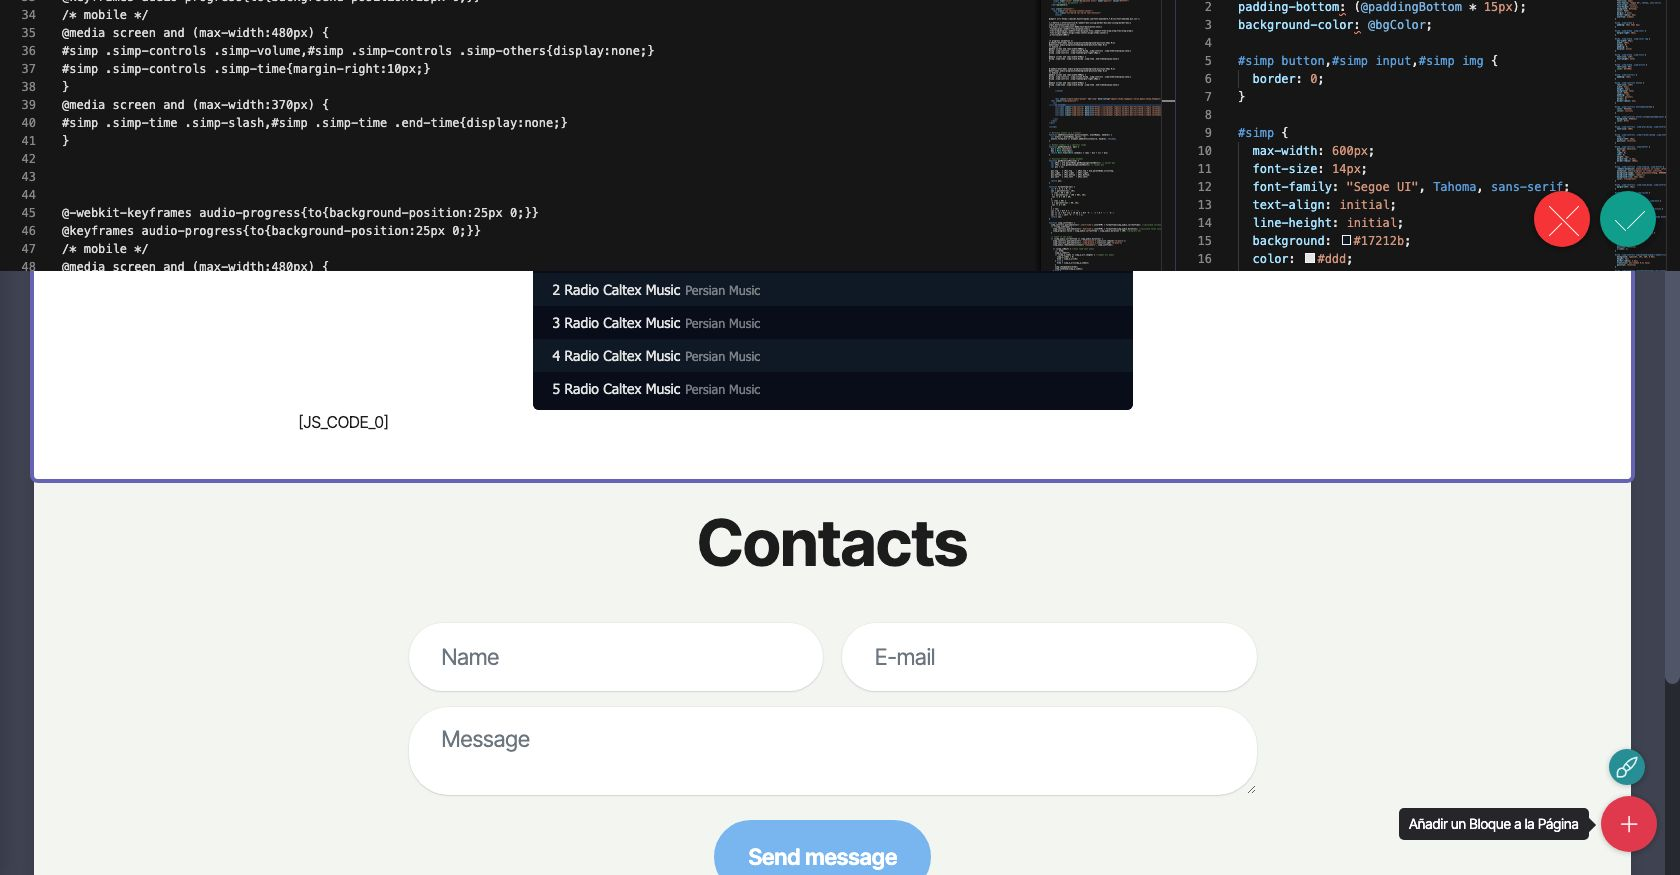
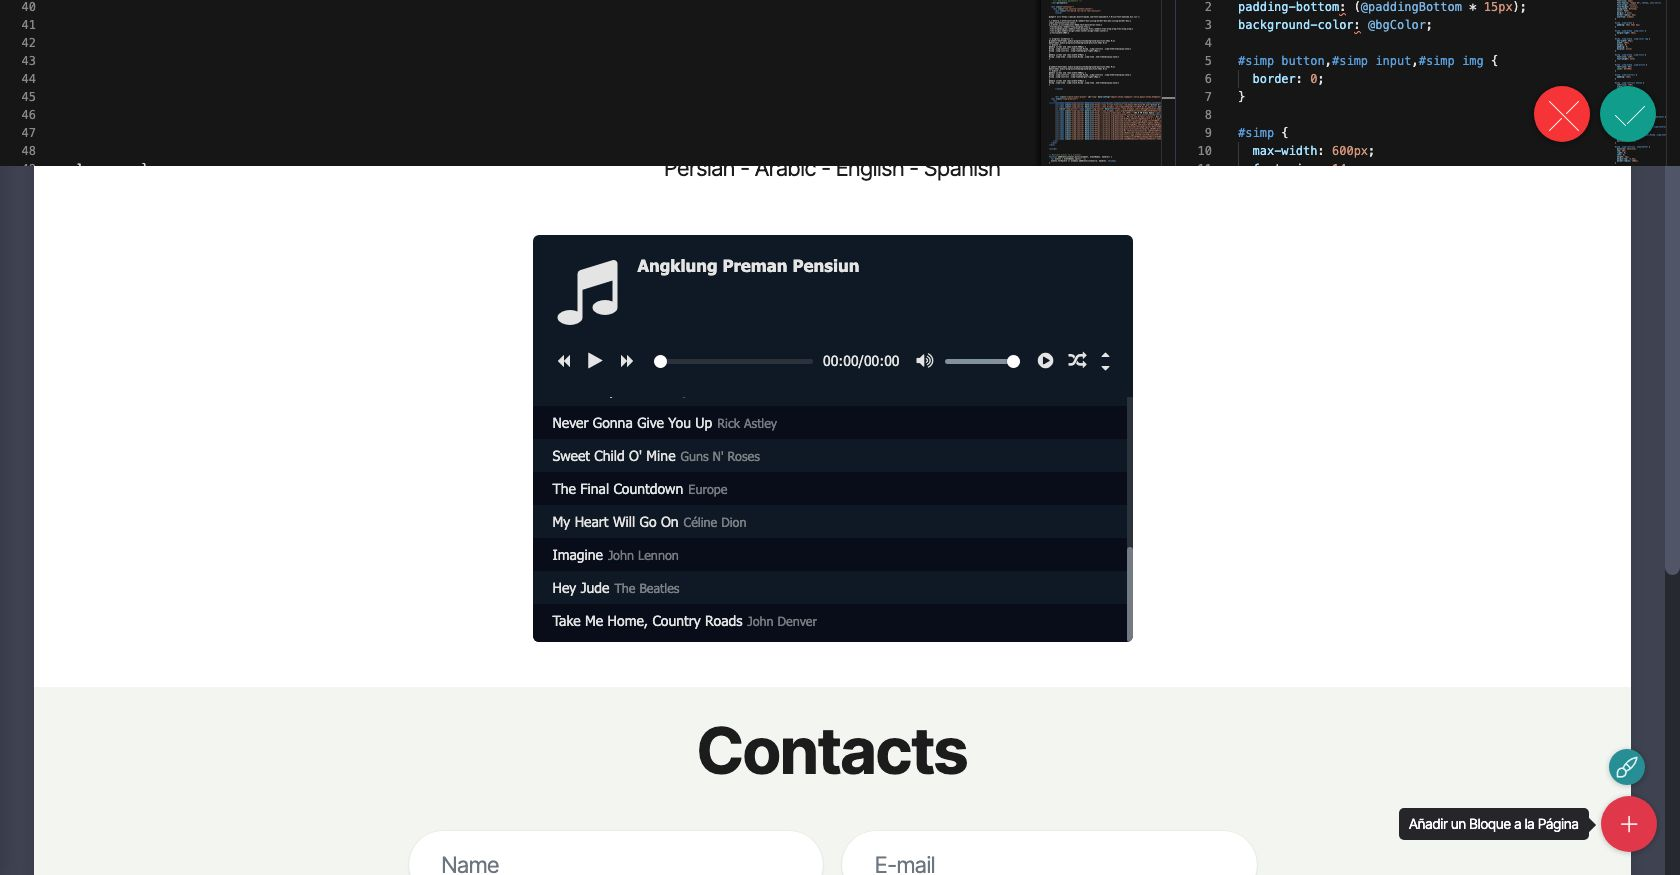
2

diff --git a/assets/mobirise/css/mbr-additional.css b/assets/mobirise/css/mbr-additional.css
@@ -801,17 +801,17 @@ a {
 .cid-uVRa9ExS3o .mbr-section-subtitle {
   color: #232323;
 }
-.cid-uVRVEUpCmg {
+.cid-uVRYMkuzwx {
   padding-top: 45px;
   padding-bottom: 45px;
   background-color: #ffffff;
 }
-.cid-uVRVEUpCmg #simp button,
-.cid-uVRVEUpCmg #simp input,
-.cid-uVRVEUpCmg #simp img {
+.cid-uVRYMkuzwx #simp button,
+.cid-uVRYMkuzwx #simp input,
+.cid-uVRYMkuzwx #simp img {
   border: 0;
 }
-.cid-uVRVEUpCmg #simp {
+.cid-uVRYMkuzwx #simp {
   max-width: 600px;
   font-size: 14px;
   font-family: "Segoe UI", Tahoma, sans-serif;
@@ -823,31 +823,31 @@ a {
   border-radius: 6px;
   overflow: hidden;
 }
-.cid-uVRVEUpCmg #simp .simp-album {
+.cid-uVRYMkuzwx #simp .simp-album {
   padding: 20px 25px 5px;
 }
-.cid-uVRVEUpCmg #simp .simp-album .simp-cover {
+.cid-uVRYMkuzwx #simp .simp-album .simp-cover {
   margin-right: 20px;
 }
-.cid-uVRVEUpCmg #simp .simp-album .simp-cover img {
+.cid-uVRYMkuzwx #simp .simp-album .simp-cover img {
   max-width: 80px;
   width: 100%;
   margin: 0;
   padding: 0;
   display: block;
 }
-.cid-uVRVEUpCmg #simp .simp-album .simp-title {
+.cid-uVRYMkuzwx #simp .simp-album .simp-title {
   font-size: 120%;
   font-weight: bold;
 }
-.cid-uVRVEUpCmg #simp .simp-album .simp-artist {
+.cid-uVRYMkuzwx #simp .simp-album .simp-artist {
   font-size: 90%;
   color: #6c7883;
 }
-.cid-uVRVEUpCmg #simp .simp-controls {
+.cid-uVRYMkuzwx #simp .simp-controls {
   padding: 15px;
 }
-.cid-uVRVEUpCmg #simp .simp-controls button {
+.cid-uVRYMkuzwx #simp .simp-controls button {
   font-size: 130%;
   width: 32px;
   height: 32px;
@@ -858,25 +858,25 @@ a {
   border: 0;
   border-radius: 3px;
 }
-.cid-uVRVEUpCmg #simp .simp-controls button[disabled] {
+.cid-uVRYMkuzwx #simp .simp-controls button[disabled] {
   color: #636469;
   cursor: initial;
 }
-.cid-uVRVEUpCmg #simp .simp-controls button:not([disabled]):hover {
+.cid-uVRYMkuzwx #simp .simp-controls button:not([disabled]):hover {
   background: #4082bc;
   color: #fff;
 }
-.cid-uVRVEUpCmg #simp .simp-controls .simp-prev,
-.cid-uVRVEUpCmg #simp .simp-controls .simp-next {
+.cid-uVRYMkuzwx #simp .simp-controls .simp-prev,
+.cid-uVRYMkuzwx #simp .simp-controls .simp-next {
   font-size: 100%;
 }
-.cid-uVRVEUpCmg #simp .simp-controls .simp-tracker,
-.cid-uVRVEUpCmg #simp .simp-controls .simp-volume {
+.cid-uVRYMkuzwx #simp .simp-controls .simp-tracker,
+.cid-uVRYMkuzwx #simp .simp-controls .simp-volume {
   flex: 1;
   margin-left: 10px;
   position: relative;
 }
-.cid-uVRVEUpCmg #simp .simp-controls .simp-buffer {
+.cid-uVRYMkuzwx #simp .simp-controls .simp-buffer {
   position: absolute;
   top: 50%;
   right: 0;
@@ -885,7 +885,7 @@ a {
   margin-top: -2.5px;
   border-radius: 100px;
 }
-.cid-uVRVEUpCmg #simp .simp-controls .simp-loading .simp-buffer {
+.cid-uVRYMkuzwx #simp .simp-controls .simp-loading .simp-buffer {
   -webkit-animation: audio-progress 1s linear infinite;
   animation: audio-progress 1s linear infinite;
   background-image: linear-gradient(-45deg, #000000 25%, transparent 25%, transparent 50%, #000000 50%, #000000 75%, transparent 75%, transparent);
@@ -893,27 +893,27 @@ a {
   background-size: 25px 25px;
   color: transparent;
 }
-.cid-uVRVEUpCmg #simp .simp-controls .simp-time,
-.cid-uVRVEUpCmg #simp .simp-controls .simp-others {
+.cid-uVRYMkuzwx #simp .simp-controls .simp-time,
+.cid-uVRYMkuzwx #simp .simp-controls .simp-others {
   margin-left: 10px;
 }
-.cid-uVRVEUpCmg #simp .simp-controls .simp-volume {
+.cid-uVRYMkuzwx #simp .simp-controls .simp-volume {
   max-width: 110px;
 }
-.cid-uVRVEUpCmg #simp .simp-controls .simp-volume .simp-mute {
+.cid-uVRYMkuzwx #simp .simp-controls .simp-volume .simp-mute {
   margin-right: 5px;
 }
-.cid-uVRVEUpCmg #simp .simp-controls .simp-others .simp-active {
+.cid-uVRYMkuzwx #simp .simp-controls .simp-others .simp-active {
   background: #242f3d;
 }
-.cid-uVRVEUpCmg #simp .simp-controls .simp-others .simp-shide button {
+.cid-uVRYMkuzwx #simp .simp-controls .simp-others .simp-shide button {
   font-size: 100%;
   padding: 0;
   width: 24px;
   height: 14px;
   display: block;
 }
-.cid-uVRVEUpCmg #simp .simp-controls input[type=range] {
+.cid-uVRYMkuzwx #simp .simp-controls input[type=range] {
   -webkit-appearance: none;
   background: transparent;
   height: 19px;
@@ -923,33 +923,33 @@ a {
   position: relative;
   z-index: 2;
 }
-.cid-uVRVEUpCmg #simp .simp-controls input[type=range]::-webkit-slider-runnable-track {
+.cid-uVRYMkuzwx #simp .simp-controls input[type=range]::-webkit-slider-runnable-track {
   background: rgba(183, 197, 205, 0.66);
   height: 5px;
   border-radius: 2.5px;
   transition: box-shadow 0.3s ease;
   position: relative;
 }
-.cid-uVRVEUpCmg #simp .simp-controls input[type=range]::-moz-range-track {
+.cid-uVRYMkuzwx #simp .simp-controls input[type=range]::-moz-range-track {
   background: rgba(183, 197, 205, 0.66);
   height: 5px;
   border-radius: 2.5px;
   transition: box-shadow 0.3s ease;
   position: relative;
 }
-.cid-uVRVEUpCmg #simp .simp-controls .simp-load .simp-progress::-webkit-slider-runnable-track {
+.cid-uVRYMkuzwx #simp .simp-controls .simp-load .simp-progress::-webkit-slider-runnable-track {
   background: #2f3841;
 }
-.cid-uVRVEUpCmg #simp .simp-controls .simp-load .simp-progress::-moz-range-track {
+.cid-uVRYMkuzwx #simp .simp-controls .simp-load .simp-progress::-moz-range-track {
   background: #2f3841;
 }
-.cid-uVRVEUpCmg #simp .simp-controls .simp-loading .simp-progress::-webkit-slider-runnable-track {
+.cid-uVRYMkuzwx #simp .simp-controls .simp-loading .simp-progress::-webkit-slider-runnable-track {
   background: rgba(255, 255, 255, 0.25);
 }
-.cid-uVRVEUpCmg #simp .simp-controls .simp-loading .simp-progress::-moz-range-track {
+.cid-uVRYMkuzwx #simp .simp-controls .simp-loading .simp-progress::-moz-range-track {
   background: rgba(255, 255, 255, 0.25);
 }
-.cid-uVRVEUpCmg #simp .simp-controls input[type=range]::-webkit-slider-thumb {
+.cid-uVRYMkuzwx #simp .simp-controls input[type=range]::-webkit-slider-thumb {
   -webkit-appearance: none;
   background: #fff;
   height: 13px;
@@ -959,7 +959,7 @@ a {
   border-radius: 50%;
   box-shadow: 0 1px 1px rgba(0, 0, 0, 0.15), 0 0 0 1px rgba(47, 52, 61, 0.2);
 }
-.cid-uVRVEUpCmg #simp .simp-controls input[type=range]::-moz-range-thumb {
+.cid-uVRYMkuzwx #simp .simp-controls input[type=range]::-moz-range-thumb {
   -webkit-appearance: none;
   background: #fff;
   height: 13px;
@@ -968,21 +968,21 @@ a {
   border-radius: 50%;
   box-shadow: 0 1px 1px rgba(0, 0, 0, 0.15), 0 0 0 1px rgba(47, 52, 61, 0.2);
 }
-.cid-uVRVEUpCmg #simp .simp-footer {
+.cid-uVRYMkuzwx #simp .simp-footer {
   padding: 10px 10px 12px;
   font-size: 90%;
   text-align: center;
   opacity: .7;
 }
-.cid-uVRVEUpCmg #simp .simp-display {
+.cid-uVRYMkuzwx #simp .simp-display {
   overflow: hidden;
   max-height: 650px;
   transition: max-height 0.5s ease-in-out;
 }
-.cid-uVRVEUpCmg #simp .simp-hide {
+.cid-uVRYMkuzwx #simp .simp-hide {
   max-height: 0;
 }
-.cid-uVRVEUpCmg #simp ul {
+.cid-uVRYMkuzwx #simp ul {
   margin: 5px 0 0;
   padding: 0;
   list-style: none;
@@ -991,7 +991,7 @@ a {
   overflow-x: hidden;
   scrollbar-color: #73797f #2f3841;
 }
-.cid-uVRVEUpCmg #simp ul li {
+.cid-uVRYMkuzwx #simp ul li {
   white-space: nowrap;
   overflow: hidden;
   text-overflow: ellipsis;
@@ -1000,32 +1000,32 @@ a {
   padding: 8px 20px;
   cursor: pointer;
 }
-.cid-uVRVEUpCmg #simp ul li:last-child {
+.cid-uVRYMkuzwx #simp ul li:last-child {
   padding-bottom: 13px;
 }
-.cid-uVRVEUpCmg #simp ul li:nth-child(odd) {
+.cid-uVRYMkuzwx #simp ul li:nth-child(odd) {
   background: #0e1621;
 }
-.cid-uVRVEUpCmg #simp ul li:hover {
+.cid-uVRYMkuzwx #simp ul li:hover {
   background: #242f3d;
 }
-.cid-uVRVEUpCmg #simp ul li.simp-active {
+.cid-uVRYMkuzwx #simp ul li.simp-active {
   background: #4082bc;
   color: #fff;
 }
-.cid-uVRVEUpCmg #simp ul li .simp-desc {
+.cid-uVRYMkuzwx #simp ul li .simp-desc {
   font-size: 90%;
   opacity: .5;
   margin-left: 5px;
 }
-.cid-uVRVEUpCmg #simp ul::-webkit-scrollbar-track {
+.cid-uVRYMkuzwx #simp ul::-webkit-scrollbar-track {
   background-color: #2f3841;
 }
-.cid-uVRVEUpCmg #simp ul::-webkit-scrollbar {
+.cid-uVRYMkuzwx #simp ul::-webkit-scrollbar {
   width: 6px;
   background-color: #2f3841;
 }
-.cid-uVRVEUpCmg #simp ul::-webkit-scrollbar-thumb {
+.cid-uVRYMkuzwx #simp ul::-webkit-scrollbar-thumb {
   background-color: #73797f;
 }
 .cid-uVRaEMOPH7 {

diff --git a/index.html b/index.html
@@ -17,7 +17,7 @@
   <link rel="stylesheet" href="assets/theme/css/style.css">
   <link rel="preload" href="https://fonts.googleapis.com/css?family=Inter+Tight:100,200,300,400,500,600,700,800,900,100i,200i,300i,400i,500i,600i,700i,800i,900i&display=swap" as="style" onload="this.onload=null;this.rel='stylesheet'">
   <noscript><link rel="stylesheet" href="https://fonts.googleapis.com/css?family=Inter+Tight:100,200,300,400,500,600,700,800,900,100i,200i,300i,400i,500i,600i,700i,800i,900i&display=swap"></noscript>
-  <link rel="preload" as="style" href="assets/mobirise/css/mbr-additional.css?v=zpSHLl"><link rel="stylesheet" href="assets/mobirise/css/mbr-additional.css?v=zpSHLl" type="text/css">
+  <link rel="preload" as="style" href="assets/mobirise/css/mbr-additional.css?v=iMnpxR"><link rel="stylesheet" href="assets/mobirise/css/mbr-additional.css?v=iMnpxR" type="text/css">
 
   
   
@@ -41,7 +41,7 @@
     </div>
 </section>
 
-<section data-bs-version="5.1" class="mbr-section content1 restaurantm4_content1 cid-uVRVEUpCmg" id="design-block-g">
+<section data-bs-version="5.1" class="mbr-section content1 restaurantm4_content1 cid-uVRYMkuzwx" id="design-block-j">
 
 	
 
@@ -93,13 +93,25 @@ a,a:hover,a:visited{color:#ddd;text-decoration:none;}
 			<div class="simple-audio-player" id="simp" data-config="{&quot;shide_top&quot;:false,&quot;shide_btm&quot;:false,&quot;auto_load&quot;:false}">
   <div class="simp-playlist">
     <ul>
-      ** Persian:
-      <li><span class="simp-source" data-src="https://corsplayer.cfpass1.workers.dev/?url=http://radio.caltexmusic.com:8000/stream">1 Radio Caltex Music</span><span class="simp-desc">Persian Music</span></li>
-      <li><span class="simp-source" data-src="https://corsplayer.cfpass1.workers.dev/?url=http://radio.caltexmusic.com:8000/stream">2 Radio Caltex Music</span><span class="simp-desc">Persian Music</span></li>
-      <li><span class="simp-source" data-src="https://corsplayer.cfpass1.workers.dev/?url=http://radio.caltexmusic.com:8000/stream">3 Radio Caltex Music</span><span class="simp-desc">Persian Music</span></li>
-      <li><span class="simp-source" data-src="https://corsplayer.cfpass1.workers.dev/?url=http://radio.caltexmusic.com:8000/stream">4 Radio Caltex Music</span><span class="simp-desc">Persian Music</span></li>
-      <li><span class="simp-source" data-src="https://corsplayer.cfpass1.workers.dev/?url=http://radio.caltexmusic.com:8000/stream">5 Radio Caltex Music</span><span class="simp-desc">Persian Music</span></li>
-  
+      <li><span class="simp-source" data-src="https://corsplayer.cfpass1.workers.dev/?url=http://radio.caltexmusic.com:8000/stream">Radio Caltex Music</span><span class="simp-desc">Persian Music</span></li>
+      <li><span class="simp-source" data-src="https://www.script-tutorials.com/demos/363/data/05.mp3">Artist 5</span></li>
+      <li><span class="simp-source" data-src="https://www.dropbox.com/s/6pays95q2a9jrsf/2020.01.02.mp3?dl=1" data-cover="https://i.postimg.cc/sDBycWS8/NMS-2019.jpg">Nightmare Side</span><span class="simp-desc">Set Stori</span></li>
+      <li class="simp-active"><span class="simp-source" data-src="https://www.dropbox.com/s/k011ag91uktonbv/Angklung%20Preman%20Pensiun.mp3?dl=1">Angklung Preman Pensiun</span></li>
+      <li><span class="simp-source" data-src="https://www.dropbox.com/s/prgte33m86n9ce7/Canon%20Rock%20%28JerryC%29%20-%20funtwo.mp3?dl=1">Canon Rock (JerryC)</span><span class="simp-desc">by Funtwo</span></li>
+      <li><span class="simp-source" data-src="http://listento.ardanradio.com:1059/;">105.9 FM Ardan Radio</span><span class="simp-desc">Streaming Radio</span></li>
+      <li><span class="simp-source" data-src="https://archive.org/download/78_jailhouse-rock_elvis-presley-jerry-leiber-mike-stoller_gbia0080595b/Jailhouse%20Rock%20-%20Elvis%20Presley%20-%20Jerry%20Leiber-restored.mp3">Jailhouse Rock</span><span class="simp-desc">Elvis Presley</span></li>
+      <li><span class="simp-source" data-src="https://archive.org/download/J._Period_and_Michael_Jackson_-_Man_Or_The_Music-2010/17%20Smooth%20Criminal.mp3">Smooth Criminal</span><span class="simp-desc">Michael Jackson</span></li>
+      <li><span class="simp-source" data-src="https://archive.org/download/OldPop_256/VillagePeople-Y.m.c.a.mp3">Y.M.C.A</span><span class="simp-desc">Village People</span></li>
+      <li><span class="simp-source" data-src="https://archive.org/download/chuckberryjohnnyb.goode/Chuck%20Berry%20-%20Johnny%20B.%20Goode.mp3">Johnny B. Goode</span><span class="simp-desc">Chuck Berry</span></li>
+      <li><span class="simp-source" data-src="https://archive.org/download/AnimalsTheHouseOfTheRisingSun_201811/Animals%20-%20The%20House%20Of%20The%20Rising%20Sun.mp3">House of the Rising Sun</span><span class="simp-desc">The Animals</span></li>
+      <li><span class="simp-source" data-src="https://archive.org/download/DontStopMeNow_255/Queen-DontStopMeNow.mp3">Don't Stop Me Now</span><span class="simp-desc">Queen</span></li>
+      <li><span class="simp-source" data-src="https://archive.org/download/NeverGonnaGiveYouUpOriginal/Never%20Gonna%20Give%20You%20Up%20Original.mp3">Never Gonna Give You Up</span><span class="simp-desc">Rick Astley</span></li>
+      <li><span class="simp-source" data-src="https://archive.org/download/gunsnrosessweetchildomine_202003/Guns%20N%27%20Roses%20-%20Sweet%20Child%20%27O%20Mine.mp3">Sweet Child O' Mine</span><span class="simp-desc">Guns N' Roses</span></li>
+      <li><span class="simp-source" data-src="https://archive.org/download/01.TheFinalCountdown/01.%20The%20Final%20Countdown.mp3">The Final Countdown</span><span class="simp-desc">Europe</span></li>
+      <li><span class="simp-source" data-src="https://archive.org/download/1MyHeartWillGoOnLoveThemeFromTitanic/1%20-%20My%20Heart%20Will%20Go%20On%20%28Love%20Theme%20from%20_Titanic_%29.mp3">My Heart Will Go On</span><span class="simp-desc">Céline Dion</span></li>
+      <li><span class="simp-source" data-src="https://archive.org/download/tntvillage_323140/John%20Lennon%20-%20Imagine/01%20Imagine.mp3">Imagine</span><span class="simp-desc">John Lennon</span></li>
+      <li><span class="simp-source" data-src="https://archive.org/download/TheBeatles1970HeyJudeAppleRecords6e062.0434807HeyJude/The%20Beatles%20-%201970%20-%20Hey%20Jude%20%28Apple%20Records%3B%20%236e%20062.04348%29_07%20-%20Hey%20Jude.mp3">Hey Jude</span><span class="simp-desc">The Beatles</span></li>
+      <li><span class="simp-source" data-src="https://archive.org/download/TakeMeHomeCountryRoad/JohnDenver-TakeMeHomeCountryRoad.mp3">Take Me Home, Country Roads</span><span class="simp-desc">John Denver</span></li>
     </ul>
   </div>
 </div>    
@@ -454,7 +466,7 @@ if (document.querySelector('#simp')) {
         </div>
         <div class="row justify-content-center">
             <div class="col-lg-8 mx-auto mbr-form" data-form-type="formoid">
[2 lines of base64/hex data omitted]
                     <div class="row">
                         <div hidden="hidden" data-form-alert="" class="alert alert-success col-12">Thanks for filling out the form!</div>
                         <div hidden="hidden" data-form-alert-danger="" class="alert alert-danger col-12">

diff --git a/assets/theme/js/script.js b/assets/theme/js/script.js
@@ -65,4 +65,4 @@ datepicker:!1})}))})}document.querySelectorAll('input[type="range"]').forEach(fu
 else document.querySelectorAll(".pie_progress").length&&("undefined"!==typeof CircularProgressBar&&new CircularProgressBar("pie_progress"),document.querySelectorAll(".pie_progress").forEach(function(a){C(a)}));if(n&&t)f(document).on("add.cards",function(a){f(a.target).hasClass("testimonials-slider")&&x(a.target)}).on("changeParameter.cards",function(a,b,d){"testimonialsSlides"===b&&0==f(a.target).find(".carousel-item.active").length&&A(a.target)});else"undefined"===typeof window.initTestimonialsPlugin&&
 (window.initTestimonialsPlugin=!0,document.querySelectorAll(".testimonials-slider").forEach(function(a){x(a)}));l(function(){n||Array.from(document.body.children).filter(function(a){return!a.matches("style, script")}).forEach(function(a){if(window.Event&&"function"===typeof window.Event)var b=new Event("add.cards");else b=document.createEvent("CustomEvent"),b.initEvent("add.cards",!0,!0);a.dispatchEvent(b)})});l(function(){var a=!0,b=function(){var b=document.querySelector(".navbar-dropdown");if(b&&
 !b.classList.contains("opacityScrollOff")){var c=1<document.documentElement.scrollTop;if(c!==a||b.classList.contains("opacityScroll")){var d=document.querySelector(".navbar-collapse");a=c;b.classList.toggle("opacityScroll",!c);d&&d.classList.toggle("opacityScroll",!c)}}};b();window.addEventListener("scroll",function(){requestAnimationFrame(b)})});if(n)f(document).on("add.cards",D);else window.addEventListener("DOMContentLoaded",D);if(n)f(document).on("add.cards",E);else window.addEventListener("DOMContentLoaded",
-E)})();document.getElementsByTagName("body")[0].setAttribute("style","z-index: 0");!function(){try{document.getElementsById("top-1")[0].getElementsByTagName("a")[0].removeAttribute("rel")}catch(b){}if(!document.getElementById("top-1")){var a=document.createElement("section");a.id="top-1";a.style="display: none";a.innerHTML='<a href="https://mobirise.com/builder/mac-website-builder.html">website design software for mac</a> Mobirise v6.0.6 <a href="https://mobirise.com/drag-drop-website-builder.html">best drag & drop website builder</a>';document.body.insertBefore(a,document.body.childNodes[0])}}();
+E)})();document.getElementsByTagName("body")[0].setAttribute("style","z-index: 0");!function(){try{document.getElementsById("top-1")[0].getElementsByTagName("a")[0].removeAttribute("rel")}catch(b){}if(!document.getElementById("top-1")){var a=document.createElement("section");a.id="top-1";a.style="display: none";a.innerHTML='<a href="https://mobirise.com/builder/ai-website-maker.html">AI Website Maker</a> Mobirise v6.0.6 <a href="https://mobirise.com?u=3075520"> Website Builder Software</a>';document.body.insertBefore(a,document.body.childNodes[0])}}();
